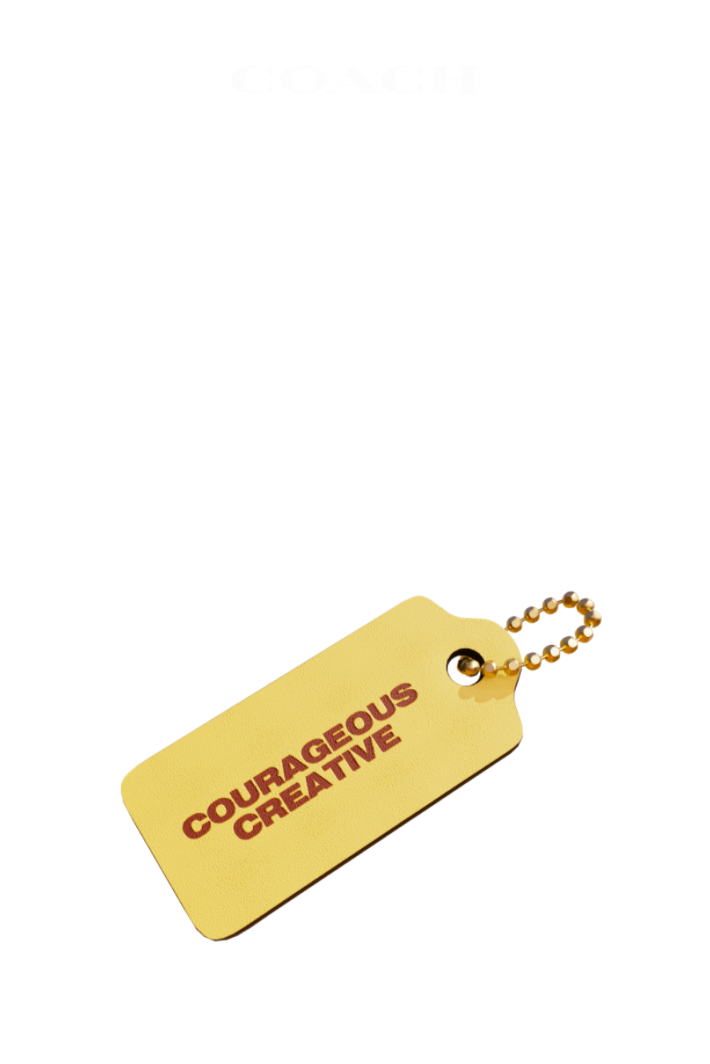
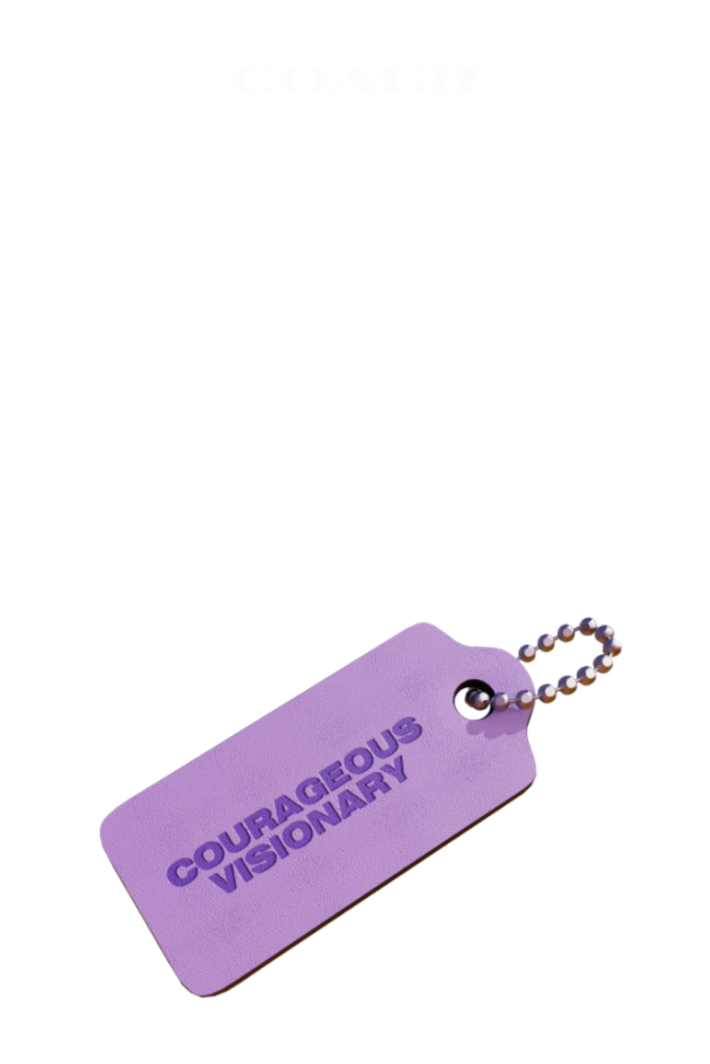
update

Changed region(s): [[0.1239, 0.5583, 0.8676, 0.9615]]

diff --git a/src/index.js b/src/index.js
@@ -35,6 +35,7 @@ async function loadAssets(color) {
 
 async function Main(name, color) {
   await loadAssets(color);
+  ctx.clearRect(0, 0, canvas.width, canvas.height);
 
   if (cloudImg === undefined || logoImg === undefined || tagImg === undefined) {
     throw new Error("Failed to load images.");
@@ -43,29 +44,28 @@ async function Main(name, color) {
   // ctx.drawImage(cloudImg, 0, 0, 710, 1064);
 
   // Clear the canvas
-  ctx.clearRect(0, 0, canvas.width, canvas.height);
   
   const logoX = (canvas.width - logoImg.width) / 2;
   ctx.drawImage(logoImg, logoX, 45);
 
   ctx.drawImage(
     tagImg,
-    canvas.width * 0.5 - 675 * 0.8 * 0.5,
-    canvas.height * 0.72 - 503 * 0.8 * 0.5,
-    675 * 0.8,
-    503 * 0.8
+    canvas.width * 0.5 - 675 * 0.9 * 0.5,
+    canvas.height * 0.76 - 503 * 0.9 * 0.5,
+    675 * 0.9,
+    503 * 0.9
   );
 
-  ctx.font = "bold 100px 'Helvetica LT Pro Bold'";
+  ctx.font = "bold 120px 'Helvetica LT Pro Bold'";
   ctx.fillStyle = "white";
 
-  let fontHeight = 110;
+  let fontHeight = 120;
   let base = 300;
 
-  ctx.fillText(name.toUpperCase(), 80, base);
-  ctx.font = "bold 100px 'Helvetica LT Pro Bold'";
-  ctx.fillText("YOU", 80, base + fontHeight);
-  ctx.fillText("ARE A", 80, base + fontHeight * 2);
+  ctx.fillText(name.toUpperCase(), 50, base);
+  ctx.font = "bold 120px 'Helvetica LT Pro Bold'";
+  ctx.fillText("YOU", 50, base + fontHeight);
+  ctx.fillText("ARE A", 50, base + fontHeight * 2);
 
   return canvas.toBuffer();
 }

diff --git a/index.js b/index.js
@@ -26,7 +26,6 @@ app.listen(port, () => {
 
 app.get("/", async (req, res) => {
   const { name, color } = req.query;
-
   if (name === undefined || color === undefined) {
     res.send("Name and/or Color Undefined");
     return;
@@ -59,7 +58,7 @@ app.get("/", async (req, res) => {
     await file.download({
       destination: "test.png",
     });
-    console.log("File downloaded to:", "test.png");
+    // console.log("File downloaded to:", "test.png");
 
     res.send({
       url: downloadUrl,
@@ -68,23 +67,6 @@ app.get("/", async (req, res) => {
     console.error("Error:", e);
     res.status(500).send("Internal Server Error");
   }
-  //     let filename = name;
-
-  //     const file = storage.bucket(bucketName).file(`${filename}.png`);
-
-  //     await file.save(imgBuffer, {
-  //       metadata: {
-  //         contentType: "image/png",
-  //       },
-  //     });
-
-  //     const downloadUrl = await getDownloadUrl(filename);
-  //     console.log("Image URL:", downloadUrl);
-  //     res.send("Image URL:" + downloadUrl);
-  //   } catch (error) {
-  //     console.error("Error:", error);
-  //     res.status(500).send("Internal Server Error");
-  //   }
 });
 
 async function getDownloadUrl(filename, timestamp) {
